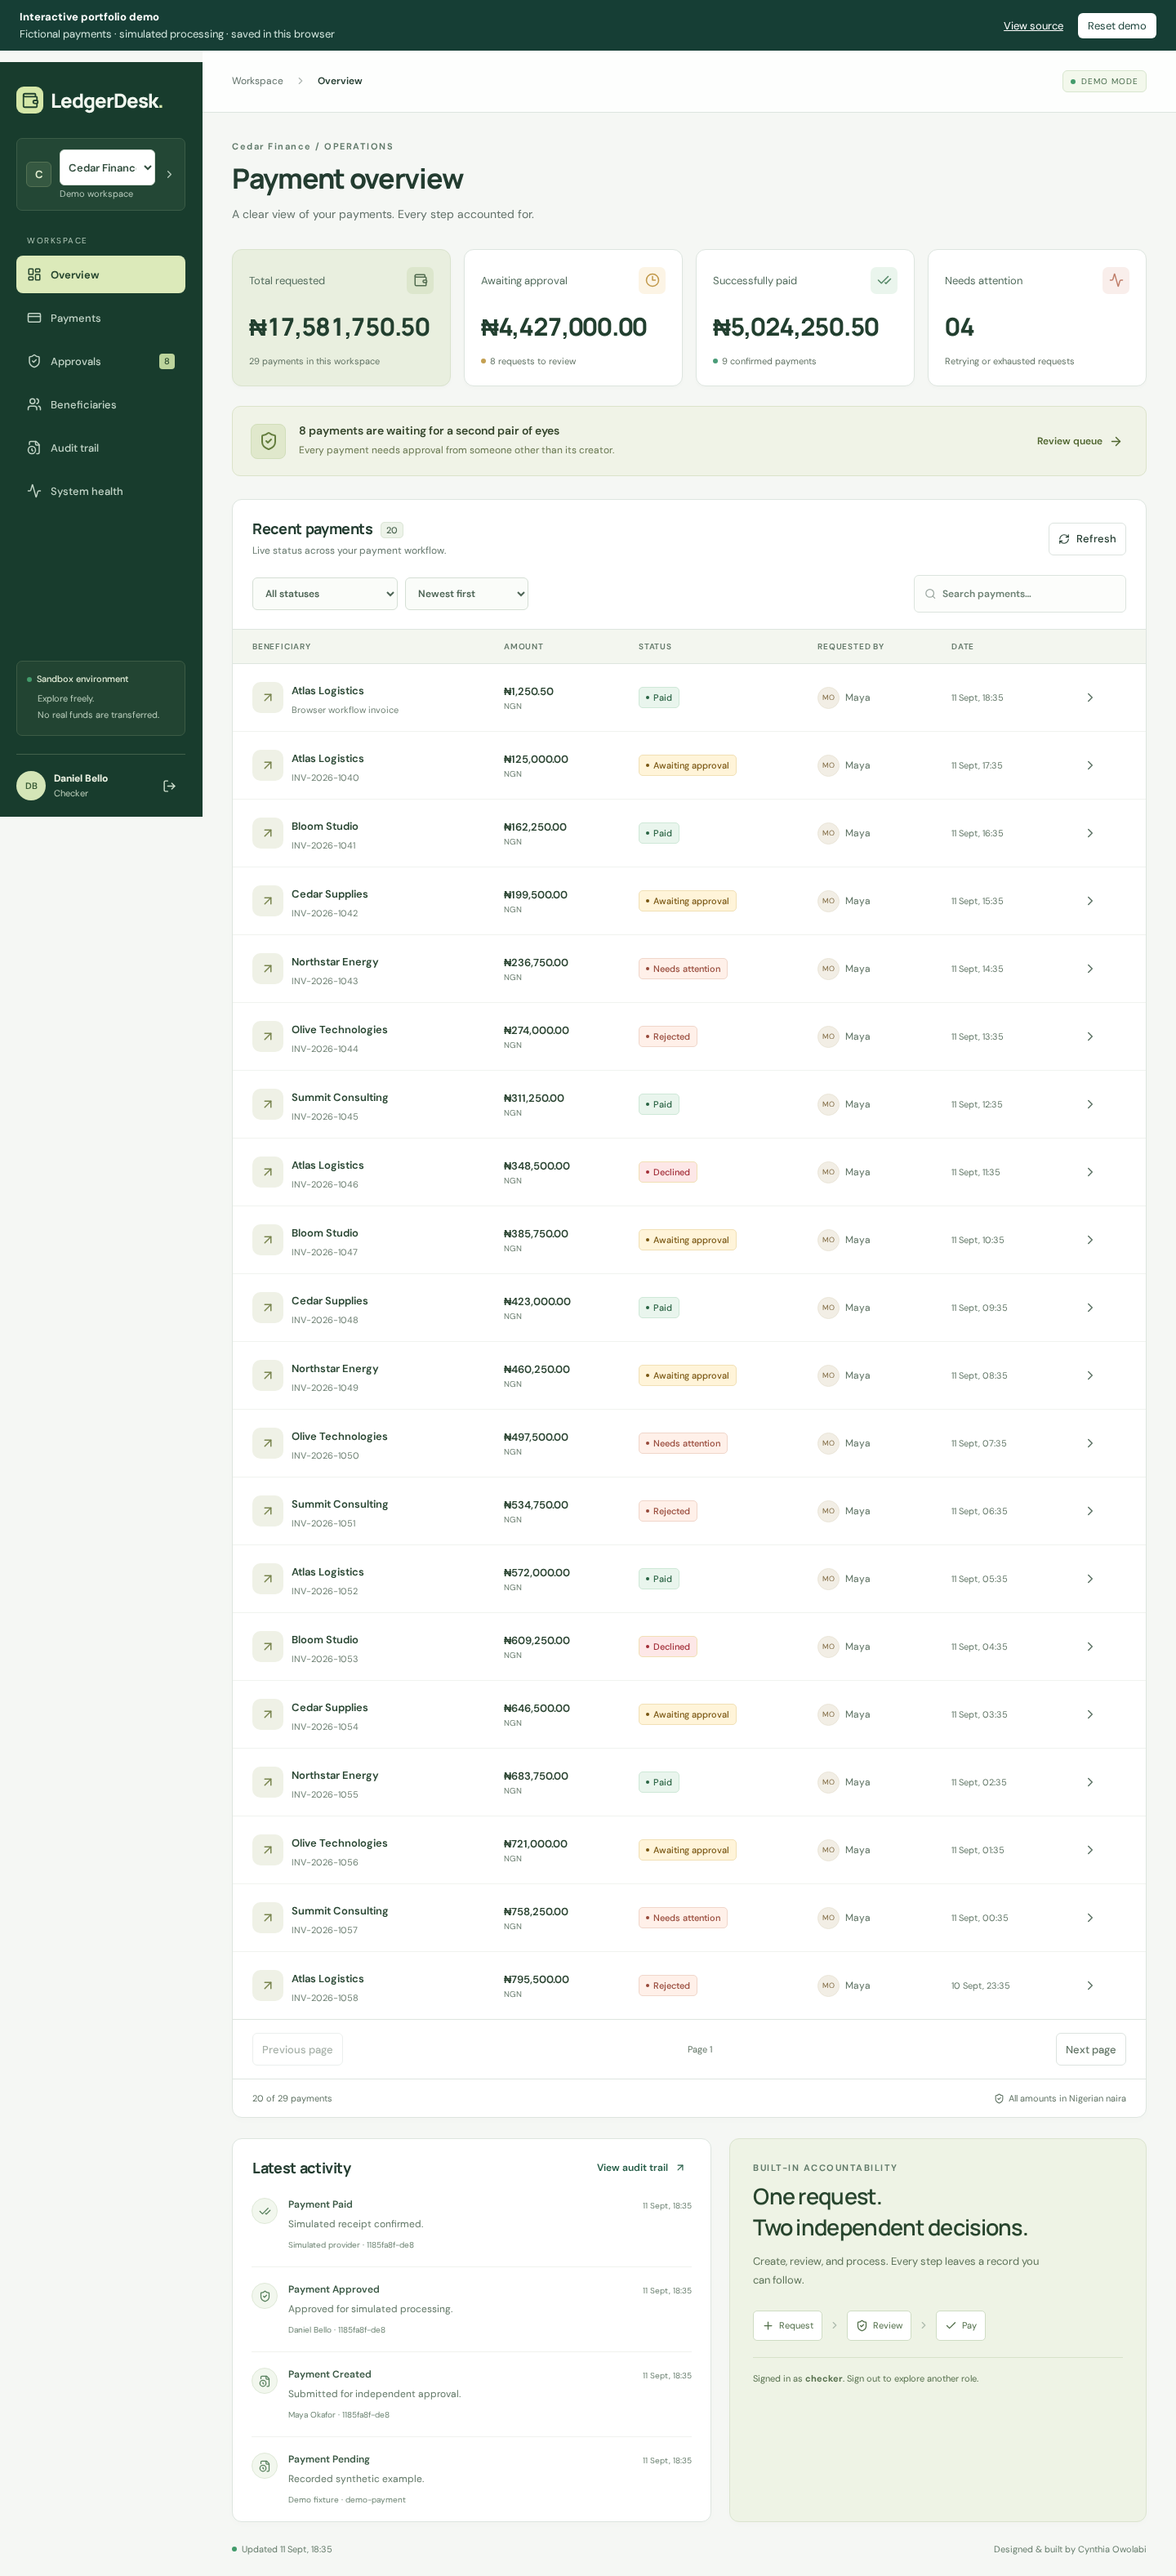
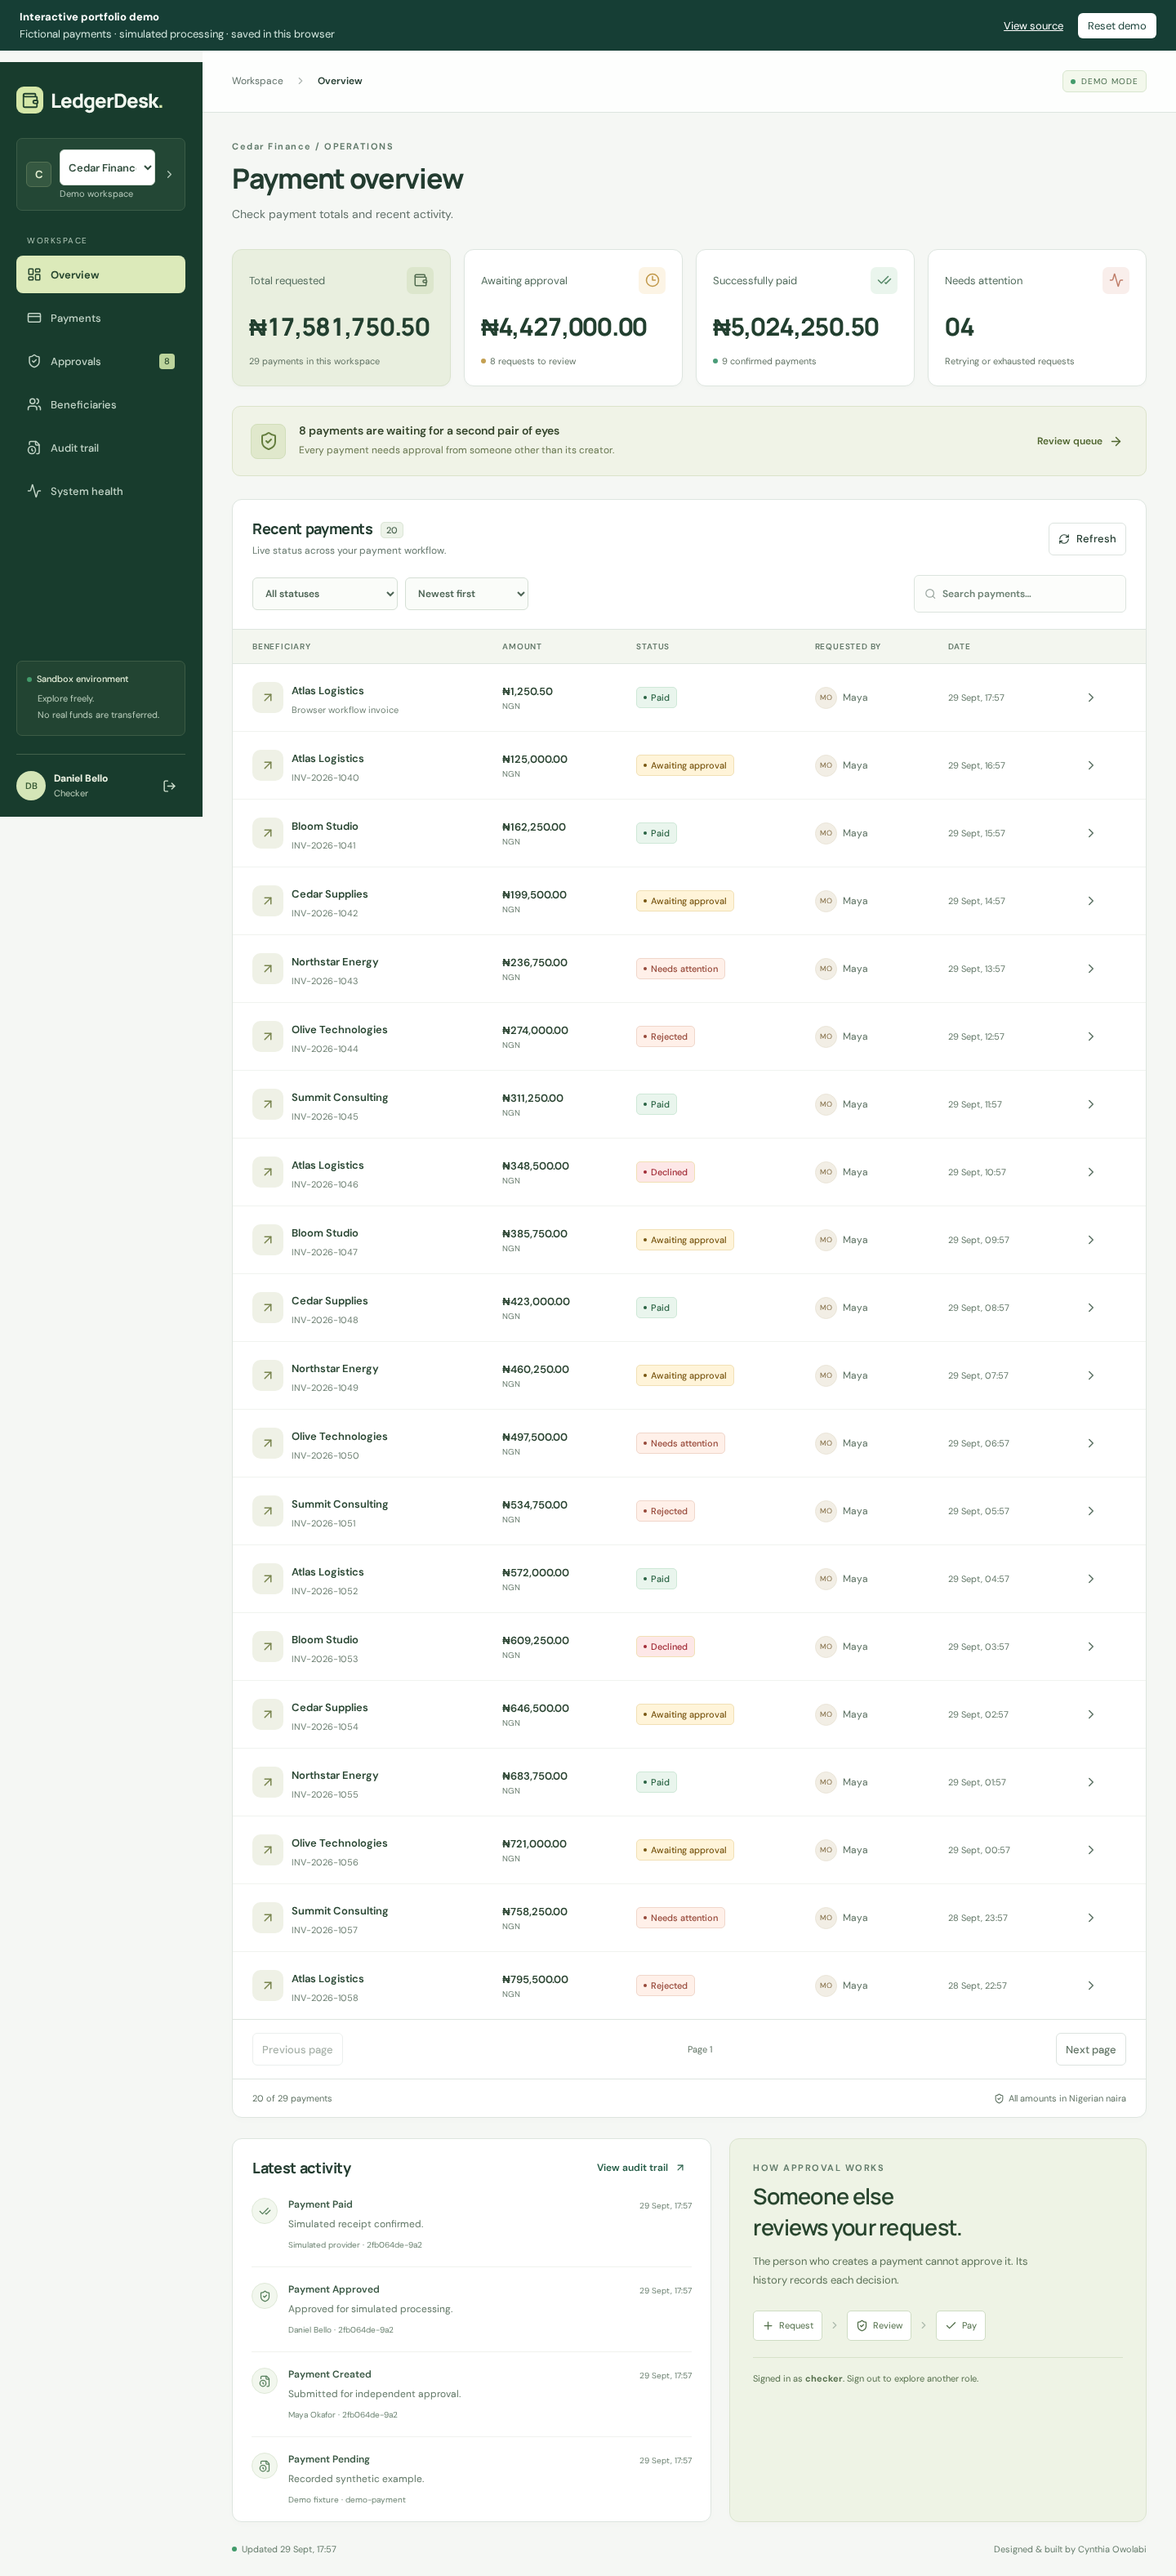
Rewrite demo and README copy in a natural voice

diff --git a/src/main.tsx b/src/main.tsx
@@ -91,16 +91,14 @@ function Login({ onLogin }: { onLogin: () => void }) {
           LedgerDesk<span className="brand-dot">.</span>
         </div>
         <div>
-          <p className="eyebrow">PAYMENT OPERATIONS, CONSIDERED.</p>
+          <p className="eyebrow">PAYMENT OPERATIONS DEMO</p>
           <h1>
-            Every payment.
-            <br />A clear path
-            <br />
-            <em>forward.</em>
+            Follow a payment <br />
+            from request <br /> <em>to receipt.</em>
           </h1>
           <p>
-            A workspace for careful approvals, clear accountability, and
-            reliable payment processing.
+            Review a payment request and see what happens when the provider
+            takes too long to respond.
           </p>
           <div className="login-pills">
             <span>
@@ -118,9 +116,7 @@ function Login({ onLogin }: { onLogin: () => void }) {
       <section className="login-form">
         <div className="demo-label">INTERACTIVE DEMO · SYNTHETIC DATA</div>
         <h2>Welcome to your workspace</h2>
-        <p className="muted">
-          Choose a role and explore the payment lifecycle.
-        </p>
+        <p className="muted">Choose a role to create or review a payment.</p>
         <div className="demo-roles">
           {people.map((p) => (
             <button
@@ -511,9 +507,9 @@ function App() {
               <h1>{page === "Overview" ? "Payment overview" : page}</h1>
               <p className="muted">
                 {page === "Overview"
-                  ? "A clear view of your payments. Every step accounted for."
+                  ? "Check payment totals and recent activity."
                   : page === "Approvals"
-                    ? "Review the details. Keep every decision accountable."
+                    ? "Review pending requests before approving or rejecting them."
                     : page === "Payments"
                       ? "Track every payment from request to confirmation."
                       : page === "Audit trail"
@@ -846,15 +842,13 @@ function App() {
                 <AuditList events={data.audit.slice(0, 4)} />
               </section>
               <section className="panel flow-panel">
-                <p className="eyebrow">BUILT-IN ACCOUNTABILITY</p>
+                <p className="eyebrow">HOW APPROVAL WORKS</p>
                 <h2>
-                  One request.
-                  <br />
-                  Two independent decisions.
+                  Someone else <br /> reviews your request.
                 </h2>
                 <p>
-                  Create, review, and process. Every step leaves a record you
-                  can follow.
+                  The person who creates a payment cannot approve it. Its
+                  history records each decision.
                 </p>
                 <div className="flow">
                   <span>
@@ -973,18 +967,16 @@ function App() {
                         )
                       }
                     >
-                      <option value="healthy">
-                        Healthy — confirm payments
-                      </option>
+                      <option value="healthy">Healthy: confirm payments</option>
                       <option value="offline">
-                        Unavailable — exercise bounded retries
+                        Unavailable: retry failed requests
                       </option>
                       <option value="decline">Permanently decline</option>
                       <option value="lookup_offline">
                         Accept, then lose access to status
                       </option>
                       <option value="timeout_once">
-                        Accept, then time out — exercise reconciliation
+                        Accept, then time out: check the outcome
                       </option>
                     </select>
                   </label>

diff --git a/index.html b/index.html
@@ -6,9 +6,9 @@
     <meta name="theme-color" content="#163c32" />
     <meta
       name="description"
-      content="An original payment operations demo by Cynthia Owolabi: approvals, audit trails, and resilient payment processing."
+      content="Follow a payment from approval to receipt, including what happens when a provider times out. Built by Cynthia Owolabi."
     />
-    <title>LedgerDesk — Payment Operations</title>
+    <title>LedgerDesk | Payment operations</title>
   </head>
   <body>
     <div id="root"></div>

diff --git a/README.md b/README.md
@@ -1,8 +1,10 @@
 # LedgerDesk
 
-A payment operations console by Cynthia Owolabi. Create a request, have an independent reviewer approve it, and follow processing through confirmation or recovery. All companies and payments are synthetic; the provider simulator moves no real funds.
+I built LedgerDesk to work through a common payment problem: a provider accepts a transfer, but its response never arrives. The app keeps that payment pending while it checks what happened. Retrying immediately could pay twice.
 
-**[Try the interactive demo](https://adebolaowolabi32.github.io/payment-operations-console/)** — no sign-up or installation.
+You can create a request and have another person approve it, then follow its processing history. The companies and payments are fictional. No real money moves.
+
+**[Try the interactive demo](https://adebolaowolabi32.github.io/payment-operations-console/)**. No sign-up or installation.
 
 ![LedgerDesk portfolio preview](docs/portfolio-desktop.png)
 
@@ -68,9 +70,9 @@ All seeded accounts use the local demo password `LedgerDemo!2026`:
 4. Watch **Confirming outcome** payments reconcile. An unresolved payment cannot be manually resubmitted.
 5. Switch Amara from Cedar Finance to Harbor Labs to see isolated payment records. Use **Account** to invite members, change roles, deactivate membership, or rotate a password.
 
-The UI retains the existing visual design, mobile payment cards, draft protection, and review step. Payment filters and sorting now run on the server. Previous/next controls access bounded payment, beneficiary, audit, and per-payment history pages. Dashboard totals cover the whole workspace, regardless of the current page.
+The server handles filtering and sorting. Payment lists and history are paginated, while dashboard totals cover the whole workspace. On mobile, payments appear as cards. Unsubmitted drafts stay in place while you review them.
 
-## Backend guarantees and tradeoffs
+## How the backend handles payments
 
 - **Independent approval:** administrators cannot approve their own requests. Version checks reject conflicting reviews.
 - **Atomic writes:** approval, its audit event, and its processing job commit together. An insertion failure rolls back the transaction.
@@ -137,6 +139,6 @@ Coverage includes concurrent claims, expired leases, stale completion, real HTTP
 
 ## Author
 
-[Cynthia Owolabi](https://github.com/adebolaowolabi32), Senior Full Stack Engineer with experience across backend, frontend, platforms and applied AI.
+Built by [Cynthia Owolabi](https://github.com/adebolaowolabi32).
 
 [Portfolio and experience](https://adebolaowolabi32.github.io/) · [Current CVs](https://adebolaowolabi32.github.io/resume.html)
